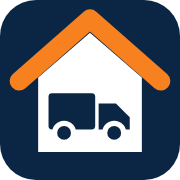
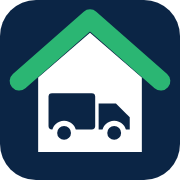
Switch brand accent color from orange to green
Recolors the buttons, stars, icons, logo set, favicon, truck
illustration and share image. The accent now lives in one set of CSS
variables (--accent) so it's a one-line change in the future. The
share image is redone in the clean white style.

Claude-Session: https://claude.ai/code/session_01BehWyJ4VBhC4TRg4ShYJLt

Changed region(s): [[0.0556, 0.0278, 0.9444, 0.5278]]

diff --git a/css/style.css b/css/style.css
@@ -8,9 +8,10 @@
   --line: #E4E1DD;          /* thin divider lines */
   --soft: #F4F2EF;          /* soft gray card / section background */
   --white: #FFFFFF;
-  --orange: #F7801F;        /* brand orange: phone buttons */
-  --orange-hover: #FF9133;
-  --orange-text: #B85200;   /* darker orange for small text on white */
+  /* Brand accent color (phone buttons, stars, icons). Change these 3 lines to recolor the site. */
+  --accent: #2BB673;
+  --accent-hover: #3DCB86;
+  --accent-text: #1C7A4D;   /* darker shade for small text on white */
   --radius: 18px;
   --header-h: 72px;
   --font-head: "Source Serif 4", Georgia, "Times New Roman", serif;
@@ -59,7 +60,7 @@ p { margin: 0 0 1em; }
   position: absolute !important; width: 1px; height: 1px; overflow: hidden;
   clip: rect(0 0 0 0); white-space: nowrap; border: 0; padding: 0; margin: -1px;
 }
-:focus-visible { outline: 3px solid var(--orange); outline-offset: 3px; }
+:focus-visible { outline: 3px solid var(--accent); outline-offset: 3px; }
 .icon-sm { width: 1.1em; height: 1.1em; flex: none; }
 
 /* ---------- Buttons (rounded pills) ---------- */
@@ -75,8 +76,8 @@ p { margin: 0 0 1em; }
 .btn-sm { min-height: 44px; padding: 9px 20px; font-size: .95rem; }
 .btn-dark { background: var(--ink); color: var(--white); }
 .btn-dark:hover { background: #333; }
-.btn-orange { background: var(--orange); color: var(--ink); }
-.btn-orange:hover { background: var(--orange-hover); }
+.btn-accent { background: var(--accent); color: var(--ink); }
+.btn-accent:hover { background: var(--accent-hover); }
 .btn-ghost { background: transparent; color: var(--ink); border-color: var(--line); }
 .btn-ghost:hover { border-color: var(--ink); }
 .btn-row { display: flex; flex-wrap: wrap; gap: 10px; }
@@ -150,13 +151,13 @@ p { margin: 0 0 1em; }
 .zip-msg:empty { display: none; }
 .zip-msg { margin: 8px 0 0 6px; font-size: .95rem; font-weight: 500; }
 .zip-msg.ok { color: #11743B; }
-.zip-msg.warn { color: var(--orange-text); }
+.zip-msg.warn { color: #9A5B00; }
 
 /* ---------- Sections ---------- */
 .section { padding: clamp(56px, 8vw, 96px) 0; }
 .section-soft { background: var(--soft); }
 .section-intro { color: var(--muted); font-size: 1.1rem; max-width: 36em; }
-.eyebrow { font-size: .82rem; font-weight: 700; text-transform: uppercase; letter-spacing: .1em; color: var(--orange-text); margin-bottom: .6em; }
+.eyebrow { font-size: .82rem; font-weight: 700; text-transform: uppercase; letter-spacing: .1em; color: var(--accent-text); margin-bottom: .6em; }
 
 /* ---------- How it works ---------- */
 .steps {
@@ -164,7 +165,7 @@ p { margin: 0 0 1em; }
   display: grid; gap: 36px; grid-template-columns: repeat(3, 1fr);
 }
 .steps li { border-top: 0; }
-.step-icon { width: 36px; height: 36px; color: var(--orange); margin-bottom: 14px; }
+.step-icon { width: 36px; height: 36px; color: var(--accent); margin-bottom: 14px; }
 .steps h3 { padding-bottom: 14px; border-bottom: 1px solid var(--line); margin-bottom: 14px; }
 .steps p { color: var(--muted); font-size: .98rem; margin: 0; }
 @media (max-width: 760px) { .steps { grid-template-columns: 1fr; gap: 28px; } }
@@ -177,7 +178,7 @@ p { margin: 0 0 1em; }
 }
 .review blockquote { margin: 0 0 16px; color: #333; flex: 1; }
 .review figcaption { color: var(--muted); }
-.stars { color: var(--orange); letter-spacing: 2px; font-size: 1.15rem; margin-bottom: 10px; }
+.stars { color: var(--accent); letter-spacing: 2px; font-size: 1.15rem; margin-bottom: 10px; }
 /* Visible label on the sample reviews. Delete the tag in index.html once you add real reviews. */
 .sample-tag {
   align-self: flex-start; margin-bottom: 10px; padding: 2px 10px; border-radius: 999px;
@@ -228,7 +229,7 @@ p { margin: 0 0 1em; }
 }
 .ba-range::-webkit-slider-thumb { -webkit-appearance: none; width: 48px; height: 100%; }
 .ba-range::-moz-range-thumb { width: 48px; height: 100%; border: 0; }
-.ba-slider:has(.ba-range:focus-visible) { outline: 3px solid var(--orange); outline-offset: 3px; }
+.ba-slider:has(.ba-range:focus-visible) { outline: 3px solid var(--accent); outline-offset: 3px; }
 
 /* ---------- Partners (investors, contractors, landlords) ---------- */
 .partner-card {
@@ -331,7 +332,7 @@ p { margin: 0 0 1em; }
   position: fixed; right: 16px; bottom: calc(16px + env(safe-area-inset-bottom)); z-index: 150;
   display: none; align-items: center; gap: 8px;
   padding: 0 22px; height: 56px; border-radius: 999px;
-  background: var(--orange); color: var(--ink); text-decoration: none;
+  background: var(--accent); color: var(--ink); text-decoration: none;
   font-weight: 700; font-size: 1.05rem;
   box-shadow: 0 8px 22px rgba(0, 0, 0, .25);
 }

diff --git a/index.html b/index.html
@@ -35,7 +35,7 @@
   <meta property="og:image" content="https://chayy17.github.io/onestopwebsite-/images/og-image.jpg">
   <meta property="og:image:width" content="1200">
   <meta property="og:image:height" content="630">
-  <meta property="og:image:alt" content="One Stop Property Solutions logo with the words Junk Gone. Same Day. No Stress.">
+  <meta property="og:image:alt" content="One Stop Property Solutions logo with the words Junk Gone. Same Day. No Stress. and a drawing of a loaded junk truck">
   <meta property="og:locale" content="en_US">
   <meta name="twitter:card" content="summary_large_image">
 
@@ -145,7 +145,7 @@
       <div class="header-actions">
         <a href="#quote" class="btn btn-dark btn-sm header-quote">Get a Quote</a>
         <!-- TODO: Replace +12815550123 and (281) 555-0123 with your real phone number -->
-        <a href="tel:+12815550123" class="btn btn-orange btn-sm">
+        <a href="tel:+12815550123" class="btn btn-accent btn-sm">
           <svg aria-hidden="true" viewBox="0 0 24 24" class="icon-sm"><path fill="currentColor" d="M6.6 10.8a15.1 15.1 0 0 0 6.6 6.6l2.2-2.2a1 1 0 0 1 1-.25 11.4 11.4 0 0 0 3.6.57 1 1 0 0 1 1 1V20a1 1 0 0 1-1 1A17 17 0 0 1 3 4a1 1 0 0 1 1-1h3.5a1 1 0 0 1 1 1c0 1.25.2 2.45.57 3.57a1 1 0 0 1-.25 1z"/></svg>
           <span class="phone-full">(281) 555-0123</span><span class="phone-short">Call</span>
         </a>
@@ -256,7 +256,7 @@
             <p>Couches, appliances, garage and attic clutter, yard waste.</p>
             <div class="btn-row">
               <a href="#quote" class="btn btn-dark btn-sm" data-service="Residential junk removal">Get a Quote</a>
-              <a href="tel:+12815550123" class="btn btn-orange btn-sm">(281) 555-0123</a> <!-- TODO: phone number -->
+              <a href="tel:+12815550123" class="btn btn-accent btn-sm">(281) 555-0123</a> <!-- TODO: phone number -->
             </div>
           </div>
           <div class="service">
@@ -264,7 +264,7 @@
             <p>Offices, retail spaces, warehouses and job sites.</p>
             <div class="btn-row">
               <a href="#quote" class="btn btn-dark btn-sm" data-service="Commercial junk removal">Get a Quote</a>
-              <a href="tel:+12815550123" class="btn btn-orange btn-sm">(281) 555-0123</a> <!-- TODO: phone number -->
+              <a href="tel:+12815550123" class="btn btn-accent btn-sm">(281) 555-0123</a> <!-- TODO: phone number -->
             </div>
           </div>
           <div class="service">
@@ -272,7 +272,7 @@
             <p>Estates, rentals, foreclosures, move-outs, garages and sheds.</p>
             <div class="btn-row">
               <a href="#quote" class="btn btn-dark btn-sm" data-service="Property cleanout">Get a Quote</a>
-              <a href="tel:+12815550123" class="btn btn-orange btn-sm">(281) 555-0123</a> <!-- TODO: phone number -->
+              <a href="tel:+12815550123" class="btn btn-accent btn-sm">(281) 555-0123</a> <!-- TODO: phone number -->
             </div>
           </div>
         </div>
@@ -459,7 +459,7 @@
               <input id="f-email" name="email" type="email" autocomplete="email">
               <div class="btn-row">
                 <button type="button" class="btn btn-ghost" data-back>Back</button>
-                <button type="submit" class="btn btn-orange">Get My Free Quote</button>
+                <button type="submit" class="btn btn-accent">Get My Free Quote</button>
               </div>
             </fieldset>
 

diff --git a/README.md b/README.md
@@ -147,7 +147,7 @@ If you buy a domain like `onestoppropertysolutions.com`:
 
 | File | Use it for |
 |---|---|
-| `images/logo.svg` | Main logo (navy + orange on white). Website header, flyers, business cards, truck doors. |
+| `images/logo.svg` | Main logo (navy + green on white). Website header, flyers, business cards, truck doors. |
 | `images/logo-white.svg` | White version for dark backgrounds, like the website footer or a dark-colored truck. |
 | `images/logo-square.svg` / `logo-square.png` | Square logo for your Facebook, Instagram, TikTok and Google profile pictures. Upload the **.png** to social sites. |
 | `images/favicon.svg`, `favicon-32.png`, `apple-touch-icon.png` | The little icon in the browser tab and on phone home screens. |
@@ -156,7 +156,7 @@ If you buy a domain like `onestoppropertysolutions.com`:
 
 **Brand colors** (to give your printer, sign shop or designer):
 - Navy: `#0B2545`
-- Orange: `#F7801F`
+- Green: `#2BB673`
 
 ---
 
